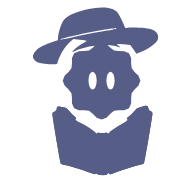
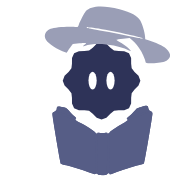
Test version: assistant in three shades (light hat, book, darkest head); notification pictures to match
Claude-Session: https://claude.ai/code/session_01SnNWWGU4BvZ2AAGobJocPY

Changed region(s): [[0.1562, 0.0312, 0.9062, 0.625]]

diff --git a/beta/index.html b/beta/index.html
@@ -3715,9 +3715,10 @@ function aiHebrewDate(d){const h=hd(d);return `${h.d} ${h.n[0]} ${h.y}`}
    adm:1 = admin-only → counts as small in the version but is never announced.
    The shown version (bottom of ⋯, popups) is worked out from these sizes by ccVerStr(). A batch shows the biggest kind it contains.
    Whole new feature -> may also set `tour:'<id>'` (an id in SETS inside ccTourStart) so "Show me" runs a live tour. */
-const CC_VER=218;
+const CC_VER=219;
 const CC_LOG=[
-  {v:180,new:['The stats rings now use the new wavy style too.']},{v:181,new:['Clearer stats screen: rings and buttons easy to see in the evening, round day dots.']},{v:182,new:['Easier to read around sunset, clearer selected buttons, neater month boxes.']},{v:183,new:['Matching shapes: reminder cards, ticked shiurim and the streak days.']},{v:184,new:['Material 3 shapes for the calendar markers, the streak days and the stats.']},{v:185,new:['Each shiur has its own shape in the stats.']},{v:186,mid:1,new:['Month view: tap a day to see what’s on it right under the week; tap it again to open the day.']},{v:187,new:['Smoother and lighter on the battery: faster day changes, quieter when idle.']},{v:188,mid:1,new:['New motion everywhere: springy, physical animations — windows grow from where you tap and their content flows in.']},{v:189,mid:1,new:['Real Material 3 motion: windows grow out of the button you tap and shrink back into it, swipes between days and months follow your finger and keep its speed, selected buttons slide to their new place.']},{v:190,new:['Faster, smoother animations.']},{v:191,new:['No more blue flash when you tap something.']},{v:192,mid:1,new:['Shapes change into other shapes: ticking a box turns its square into a scalloped cookie, the selected day becomes a new shape, switches and buttons morph when you press them.']},{v:193,new:['Fixed: tapping a shiur box ticks it again.']},{v:194,mid:1,new:['The siddur has a little compass arrow at the top that points toward Yerushalayim. Tap it to see the direction.']},{v:195,new:['The siddur arrow is now a soft triangle that points the way to daven (map direction or shortest path — tap it to choose).']},{v:196,new:['The siddur direction arrow has its new shape.']},{v:197,new:['The drop arrow and its flying bubbles are gone; the cards now simply slide up as you scroll.']},{v:198,new:['Windows open and close a little slower, so the motion is easier to enjoy.']},{v:199,new:['The month view no longer looks stretched: shorter day boxes, and windows keep their shape while they open.']},{v:200,mid:1,new:['In the siddur, swipe sideways to move between Shacharis, Mincha, Maariv, Bentching and Shema; swipe in from the left edge to close it.']},{v:201,new:['Month view: the shapes behind today and the selected day are no longer stretched sideways.']},{v:202,big:1,new:['Material 3 everywhere, fixed and finished: every window grows from its button and shrinks back into it (also the full-screen ones), text stays crisp while windows move, sliding highlights in the siddur tabs, the week strip follows your finger, predictive back, moving wavy rings, a new loader, pressed buttons make room for each other, and Material 3’s Roboto Flex font.']},{v:203,new:['Cleaner look: one font for all English, solid sheets, crisper scrolling, clearer selected day, tidier settings and shiurim, calmer dusk.']},{v:204,new:['Fixes from a full check: stats now count today properly, the phone’s Back button closes the How & when guide, clearer choices at night, and small tidy-ups in the siddur and assistant.']},{v:205,new:['The stats page is much lighter and smoother (it could freeze or close the app).']},{v:206,new:['Today’s streak shape now spins into a new shape and fills up a quarter for every shiur you check off.']},{v:207,new:['Today’s streak shape now really spins (a full turn) as it changes shape.']},{v:208,new:['The assistant button is now a silhouette in the app’s colour, with a shape-shifting head that spins as you scroll.']},{v:209,new:['The assistant button has small eyes again, sized for his new head.']},{v:210,new:['The assistant has the new look everywhere he appears — every window and the notifications.']},{v:211,new:['His head stays still while he’s asleep.']},{v:218,new:['The sun turns soft peach at sunrise and sunset, and the sun and moon slowly turn and change between rounded shapes as they move across the sky.']},
+  {v:180,new:['The stats rings now use the new wavy style too.']},{v:181,new:['Clearer stats screen: rings and buttons easy to see in the evening, round day dots.']},{v:182,new:['Easier to read around sunset, clearer selected buttons, neater month boxes.']},{v:183,new:['Matching shapes: reminder cards, ticked shiurim and the streak days.']},{v:184,new:['Material 3 shapes for the calendar markers, the streak days and the stats.']},{v:185,new:['Each shiur has its own shape in the stats.']},{v:186,mid:1,new:['Month view: tap a day to see what’s on it right under the week; tap it again to open the day.']},{v:187,new:['Smoother and lighter on the battery: faster day changes, quieter when idle.']},{v:188,mid:1,new:['New motion everywhere: springy, physical animations — windows grow from where you tap and their content flows in.']},{v:189,mid:1,new:['Real Material 3 motion: windows grow out of the button you tap and shrink back into it, swipes between days and months follow your finger and keep its speed, selected buttons slide to their new place.']},{v:190,new:['Faster, smoother animations.']},{v:191,new:['No more blue flash when you tap something.']},{v:192,mid:1,new:['Shapes change into other shapes: ticking a box turns its square into a scalloped cookie, the selected day becomes a new shape, switches and buttons morph when you press them.']},{v:193,new:['Fixed: tapping a shiur box ticks it again.']},{v:194,mid:1,new:['The siddur has a little compass arrow at the top that points toward Yerushalayim. Tap it to see the direction.']},{v:195,new:['The siddur arrow is now a soft triangle that points the way to daven (map direction or shortest path — tap it to choose).']},{v:196,new:['The siddur direction arrow has its new shape.']},{v:197,new:['The drop arrow and its flying bubbles are gone; the cards now simply slide up as you scroll.']},{v:198,new:['Windows open and close a little slower, so the motion is easier to enjoy.']},{v:199,new:['The month view no longer looks stretched: shorter day boxes, and windows keep their shape while they open.']},{v:200,mid:1,new:['In the siddur, swipe sideways to move between Shacharis, Mincha, Maariv, Bentching and Shema; swipe in from the left edge to close it.']},{v:201,new:['Month view: the shapes behind today and the selected day are no longer stretched sideways.']},{v:202,big:1,new:['Material 3 everywhere, fixed and finished: every window grows from its button and shrinks back into it (also the full-screen ones), text stays crisp while windows move, sliding highlights in the siddur tabs, the week strip follows your finger, predictive back, moving wavy rings, a new loader, pressed buttons make room for each other, and Material 3’s Roboto Flex font.']},{v:203,new:['Cleaner look: one font for all English, solid sheets, crisper scrolling, clearer selected day, tidier settings and shiurim, calmer dusk.']},{v:204,new:['Fixes from a full check: stats now count today properly, the phone’s Back button closes the How & when guide, clearer choices at night, and small tidy-ups in the siddur and assistant.']},{v:205,new:['The stats page is much lighter and smoother (it could freeze or close the app).']},{v:206,new:['Today’s streak shape now spins into a new shape and fills up a quarter for every shiur you check off.']},{v:207,new:['Today’s streak shape now really spins (a full turn) as it changes shape.']},{v:208,new:['The assistant button is now a silhouette in the app’s colour, with a shape-shifting head that spins as you scroll.']},{v:209,new:['The assistant button has small eyes again, sized for his new head.']},{v:210,new:['The assistant has the new look everywhere he appears — every window and the notifications.']},{v:211,new:['His head stays still while he’s asleep.']},{v:219,new:['The assistant now has three shades: a light hat, his book in the app colour, and the darkest head.']},
+{v:218,new:['The sun turns soft peach at sunrise and sunset, and the sun and moon slowly turn and change between rounded shapes as they move across the sky.']},
 {v:217,new:['The sun and moon have a new look: a soft pastel-yellow sun and a periwinkle moon with darker craters, in rounded Material 3 shapes. The moon still shows its real phase.']},
 {v:216,new:['The waves in the filling shapes and progress rings now move all the time, like real water.']},
 {v:215,new:['Shapes that fill up now fill like flowing water: a wavy line that moves as it fills (the streak days and the progress rings).']},
@@ -5899,15 +5900,21 @@ body.wm-pb.sd-hide>*{visibility:visible!important}
 /* ===== v208/v210: the assistant everywhere = a silhouette in the app colour, small eyes, a Material 3 head (switch fabsil) ===== */
 .cch .c-fh{display:none}
 :root:not(.tt-off-fabsil):not(.tt-off-m3) .cch:not(.csil){--ink:var(--m3p);--fill:var(--m3p);--halo:transparent}
+/* v219 (owner: "make the character's head a darker colour than the rest of his body … his sefer body darker than the hat, the head the darkest"): three tones of the theme colour — hat lightest, book the theme colour, head darkest (switch fabsil) */
+:root:not(.tt-off-fabsil):not(.tt-off-m3) .cch:not(.csil){--chT:color-mix(in srgb,var(--m3p) 60%,#fff);--chB:var(--m3p);--chH:color-mix(in srgb,var(--m3p) 38%,#161a3c)}
+:root:not(.tt-off-fabsil):not(.tt-off-m3) .cch:not(.csil) :is(.c-hat,.c-hatb){--ink:var(--chT);--fill:var(--chT)}
+:root:not(.tt-off-fabsil):not(.tt-off-m3) .cch:not(.csil) .c-book{--ink:var(--chB);--fill:var(--chB)}
+:root:not(.tt-off-fabsil):not(.tt-off-m3):is([data-night="1"],[data-theme="dark"]) .cch:not(.csil),:root:not(.tt-off-fabsil):not(.tt-off-m3) #shabGate .cch{--m3op:#eef0ff}/* the darker head needs light eyes at night */
+:root:not(.tt-off-fabsil):not(.tt-off-m3) .cch:not(.csil) .c-fh,:root:not(.tt-off-fabsil):not(.tt-off-m3) #fabCh .c-fh{fill:var(--chH)}
 :root:not(.tt-off-fabsil):not(.tt-off-m3) .cch:not(.csil) :is(.c-face,.c-halo,.c-br,.c-alr,.c-thk){display:none!important}
 /* v210: his smiling / closed / dizzy eyes stay visible: same light colour, shrunk to the small eyes' size (a static CSS scale composes with the rig's transform attribute) */
 :root:not(.tt-off-fabsil):not(.tt-off-m3) .cch:not(.csil) :is(.c-hap,.c-cls,.c-dz .ln){stroke:var(--m3op)!important;fill:none}
 :root:not(.tt-off-fabsil):not(.tt-off-m3) .cch:not(.csil) :is(.c-hap,.c-cls,.c-dz){transform-box:view-box;transform-origin:182.6px 171.5px;scale:.68}
 /* the Shabbos screen is always dark: night colours there, no white outline */
 :root:not(.tt-off-fabsil):not(.tt-off-m3) #shabGate .cch{--m3p:#c3c7ea;--m3op:#262b49;--halo:transparent}
-:root:not(.tt-off-fabsil):not(.tt-off-m3) .cch:not(.csil) .c-fh{display:inline;fill:var(--m3p)}
+:root:not(.tt-off-fabsil):not(.tt-off-m3) .cch:not(.csil) .c-fh{display:inline;fill:var(--chH)}
 :root:not(.tt-off-fabsil):not(.tt-off-m3) .cch:not(.csil) .c-e{fill:var(--m3op)!important;stroke:none!important}
-:root:not(.tt-off-fabsil):not(.tt-off-m3) #fabCh .c-fh{display:inline;fill:var(--m3p)}
+:root:not(.tt-off-fabsil):not(.tt-off-m3) #fabCh .c-fh{display:inline;fill:var(--chH)}
 
 :root{--pf-blob:polygon(evenodd,50.0% 2.8%,57.5% 2.8%,65.0% 3.9%,72.0% 6.8%,77.9% 11.6%,82.0% 18.0%,84.4% 25.0%,85.8% 31.7%,87.4% 37.9%,89.5% 43.7%,91.6% 50.0%,92.6% 56.8%,91.4% 63.5%,87.8% 69.2%,82.4% 73.5%,76.7% 76.7%,71.4% 79.5%,66.8% 83.0%,62.1% 87.2%,56.6% 91.5%,50.0% 94.8%,42.7% 96.1%,35.3% 95.4%,28.1% 93.0%,21.3% 89.6%,14.9% 85.1%,9.6% 79.4%,6.2% 72.3%,5.6% 64.4%,8.0% 56.7%,12.3% 50.0%,16.8% 44.7%,19.9% 40.2%,21.3% 35.4%,21.7% 29.5%,22.6% 22.6%,25.1% 15.7%,29.6% 10.0%,35.7% 6.1%,42.7% 3.8%,50.0% 2.8%,50.0% 50.0%,50.0% 50.0%,50.0% 50.0%,50.0% 50.0%,50.0% 50.0%,50.0% 50.0%,50.0% 50.0%,50.0% 50.0%,50.0% 50.0%,50.0% 50.0%,50.0% 50.0%,50.0% 50.0%,50.0% 50.0%,50.0% 50.0%,50.0% 50.0%,50.0% 50.0%,50.0% 50.0%,50.0% 50.0%,50.0% 50.0%,50.0% 50.0%,50.0% 50.0%,50.0% 50.0%,50.0% 50.0%,50.0% 50.0%,50.0% 50.0%,50.0% 50.0%,50.0% 50.0%,50.0% 50.0%,50.0% 50.0%,50.0% 50.0%,50.0% 50.0%,50.0% 50.0%,50.0% 50.0%,50.0% 50.0%,50.0% 50.0%,50.0% 50.0%,50.0% 50.0%,50.0% 50.0%,50.0% 50.0%,50.0% 50.0%,50.0% 50.0%);--pf-dia:polygon(evenodd,50.0% 0.0%,57.5% 2.9%,64.0% 6.8%,69.8% 11.1%,75.1% 15.5%,79.9% 20.1%,84.5% 24.9%,88.9% 30.2%,93.2% 36.0%,97.1% 42.5%,100.0% 50.0%,97.1% 57.5%,93.2% 64.0%,88.9% 69.8%,84.5% 75.1%,79.9% 79.9%,75.1% 84.5%,69.8% 88.9%,64.0% 93.2%,57.5% 97.1%,50.0% 100.0%,42.5% 97.1%,36.0% 93.2%,30.2% 88.9%,24.9% 84.5%,20.1% 79.9%,15.5% 75.1%,11.1% 69.8%,6.8% 64.0%,2.9% 57.5%,0.0% 50.0%,2.9% 42.5%,6.8% 36.0%,11.1% 30.2%,15.5% 24.9%,20.1% 20.1%,24.9% 15.5%,30.2% 11.1%,36.0% 6.8%,42.5% 2.9%,50.0% 0.0%,50.0% 50.0%,50.0% 50.0%,50.0% 50.0%,50.0% 50.0%,50.0% 50.0%,50.0% 50.0%,50.0% 50.0%,50.0% 50.0%,50.0% 50.0%,50.0% 50.0%,50.0% 50.0%,50.0% 50.0%,50.0% 50.0%,50.0% 50.0%,50.0% 50.0%,50.0% 50.0%,50.0% 50.0%,50.0% 50.0%,50.0% 50.0%,50.0% 50.0%,50.0% 50.0%,50.0% 50.0%,50.0% 50.0%,50.0% 50.0%,50.0% 50.0%,50.0% 50.0%,50.0% 50.0%,50.0% 50.0%,50.0% 50.0%,50.0% 50.0%,50.0% 50.0%,50.0% 50.0%,50.0% 50.0%,50.0% 50.0%,50.0% 50.0%,50.0% 50.0%,50.0% 50.0%,50.0% 50.0%,50.0% 50.0%,50.0% 50.0%,50.0% 50.0%)}
 /* ===== v212 (owner, month screenshot: "all of these small ones should be triangles, squares, circles, and blobs … none of them the shapes they are now"): kind markers = plain shapes (clip-path, no masks) ===== */

diff --git a/CLAUDE.md b/CLAUDE.md
@@ -65,6 +65,7 @@ Do not add files named `index (1).html` or similar: only `index.html` is served.
 - **v216 (owner: "when I said wavy, I meant live animation wavy"):** the v215 waves now move ALL the time, but only as compositor layers (no SVG child animates, no layout per frame). Streak: partly filled `.qdot i` (today n1–n3, past `.p`) = faint background + an `::after` liquid layer (height `calc(var(--fl) + 2.5px)` — `--fl` is now `inherits:true` so the pseudo can follow it; crest tile 6×5 px + solid below) sliding `translate:-6px` every 1.5 s (`qwv`). Rings: `.ring` gets `<i class="rwv" style="--rp:…"><b>`: the `<i>` has a conic mask for the progress (`--rp`, registered number, transitions on change; `upd()` sets it and `data-z` when 0 — no animation then), the `<b>` is `--m3p` masked by the wavy ring as a static data-URI SVG (the rfw path) and turns `rotate:30deg` per 2.4 s (`rwvS`, 12 waves = seamless); the SVG wave `.rfg` is hidden. Stats `sRing` adds `sWvL(...)` = the same with that ring's own `sWave` path and a conic from 225° over 270° (`--tp` = target, `stsAnim` animates `--rp` 0 → target with the grow-in), turning one wave length per 2.6 s (`swvS`); `.pgw` hidden. Paused under `cc-still` (20 s untouched) and `cc-cover` (a window open) — NOT `cc-away`, since the streak/ring are seen while scrolled down; reduced motion stops them. Cost measured (4× throttled, 8 s idle with 2/4 done, scrolled to the streak): ~10 extra style ticks/s vs the waves off. Switch `qwave` = the old static waves. Test: scratchpad `stp/live.js` (frames 260 ms apart, running animation names, stats hero).
 - **v217 (owner: "the moon and the sun should also be Material 3 Expressive … themed … moon in the app's purples/blues with a few darker craters … sun a dull pastel yellow … circular-style shapes, not necessarily circles"):** `<style id="cc-m3sky">` + a script just before `</body>`, Test tools switch `m3sky` (also off with `m3`). Sun: `.sun-b::after` clipped to `--m3sunP` (a 9-lobed soft "sunny" polygon r = 1 − a + a(½+½cos 9θ), a .085, 120 points, set on `:root` by the script), pastel #f2e6b8 → #e8d69e with 16–22% of the altitude colour `--sunc` (so it warms a little at sunrise/sunset), soft pastel halo on `::before`, turning once per 90 s (`m3sunR`, compositor `rotate`; paused under `cc-still`/`cc-away`/`cc-cover`). Moon: `artMoonUrl`/`artMoonUrlSoon` are wrapped (global reassignment) to return an SVG data URI from `M3Moon(f)`: a 9-lobed soft cookie (a .06), the unlit side `#4a5089` (night/dusk) or faint `rgba(96,104,178,.3)` (light theme: day moon), the lit side periwinkle `#c7cbf1` / `#a3abe6` from the real phase (half-disc + elliptical terminator, mirrored when waning), 7 craters darker (`#9aa1dc` / `#7c84cb`, dimmer on the dark side); the old photo filters and the white veil are off (`filter:none`, below horizon `brightness(.82)`). A class/data-theme observer re-sets every `img.mimg` when the theme or the switch changes. Test: scratchpad `stp/sky.js` (env `L` = JSON list of [time, name]).
 - **v218 (owner: "make the sun's colour change for sunrise and sunset … shapes in more variety … lightly spin as they move along the sky and morph into different shapes"):** in the v217 block. Sun colour: the script reads `--sunc` every 20 s (its green channel 224 at midday → 134 at the horizon) and sets `--sunw` = ((224−g)/90)^1.4 on `:root`; the disc is `color-mix` from pastel yellow (#f2e6b8/#e8d69e) to pastel peach-coral (#f8cfb0/#eda988) by `--sunw`, the halo the same. Shapes: generated keyframes in `<style id="cc-m3skykf">` — `m3sunM` (60 s) and `m3moonM` (90 s), 41 stops of `clip-path: polygon(72 points)` cycling five soft rounded shapes each (sun [n,a,p]: 9/.085, 7/.1, 12/.06, 6/.12^1.6, 8/.09; moon gentler: 9/.06, 7/.07, 11/.045, 5/.08^1.4, 8/.055), each held ~55% of its slot then smoothstep-morphed into the next (same sample angles → a clean radial morph), while the shape turns one full turn per loop (the turn is inside the polygons, so the moon's phase and craters stay upright — the moon SVG is now a full square and the CSS clip on `img.mimg` gives its shape). Paused under `cc-still`/`cc-away`/`cc-cover`, static under reduced motion. Cost: ~10% more idle style work while visible (8 s, 4× throttle). Test: scratchpad `stp/morphsky.js` (env `L`, `FR` frames, `GAP` ms).
+- **v219 (owner: "make the character's head a darker colour than the rest of his body … his sefer body darker than the hat, the head the darkest"):** in the v208 block (switch `fabsil`): `--chT` hat = `--m3p` 60% + white, `--chB` book = `--m3p`, `--chH` head = `--m3p` 38% + #161a3c; set by overriding `--ink`/`--fill` on `.c-hat/.c-hatb` and `.c-book` (their parts read those vars), and `.c-fh{fill:var(--chH)}` (the older `.c-fh{display:inline;fill:var(--m3p)}` rules were changed too — they came later in the file and won). At night/dusk (`data-night`/`data-theme=dark`) and on the Shabbos screen the eyes are light (`--m3op:#eef0ff`) so they show on the darker head. Notification pictures (`assets/char/c1..9.png`, `native/assets/char/cc_char1..9.png`) re-rendered with the three tones (scratchpad `stp/notif.js`, run from `stp/nt/`). Test: scratchpad `stp/tone.js` (+ button and assistant sheet, day and night, 4×).
 - **v191 (owner: "when I click on something it turns blue, and only then it opens"):** top of `cc-m3x`: `-webkit-tap-highlight-color:transparent` on every element (it was only set on ~10), `user-select:none` + `-webkit-touch-callout:none` on tappable things (buttons, links, chips, cards, day cells, dock…; text in the reader/inputs stays selectable), and no focus outline after a tap (`:focus:not(:focus-visible)`; keyboard focus still shows).
 - **Per-profile storage:** `AK(key)`, `ST(key,default)`. Local profiles and a login gate exist (`cc_local_profiles_v1`).
 - **Accounts saved online (owner, v89; v91: Create account asks for the password twice, `#accountPass2`, shown only in create mode: "if someone logs in on a different phone or uninstalls and reinstalls, it still has all his stuff").** Push server `/acct/new|login|sync` (origin-locked; KV `acct:<user>` = `{s salt, h PBKDF2-SHA256 10k, tk: last 12 session tokens, d:{key:[value,time]}, r revision, f/ft failed sign-ins → 8 fails = 10 min lock}`; user `test` refused). The sign-in script (`window.ccAcct`) sends the typed password only to the server (the phone still keeps its old FNV `passwordHash` for offline sign-in) and keeps a token in `cc_sync_<user>` = `{t, r, h:{key: FNV hash last synced}, at}`. Synced = every `cc_profile_<user>_*` key except `cc_sd_pos`/`cc_test_*`, plus `@seen` (`cc_seen_ver_<u>`) and `@tour` (`cc_local_tour_done_<u>`). `sync(u)`: changed keys go up as `[value, time, base hash]`; the server applies a change only if its copy still matches the base, otherwise the phone merges (`merge`: JSON objects unioned one level deep, server wins a clash — so shiurim ticked on two phones are kept) and sends again. Create account = registers on the server (409 → "taken"; no internet → phone-only account, backed up later). Log in with a name unknown on this phone → `/acct/login` → the server copy is written to the phone (`applyAll`). Existing signed-in users with no token get a one-time-per-opening card `#bkCard` ("Keep your account safe": type the password; if the name is someone else's on the server, pick a new one → `ccAcct.rename` moves the phone's data). Runner (block after `acctOut` in the main script): sync 1.5 s after opening, on leaving the app, on return (after 60 s), every 2 min while open; reads are cheap, a write only when something changed (KV free plan: 1000 writes/day). New data from another phone → quiet reload (while hidden, or within 20 s of opening if untouched; else on leaving). ⋯ account card line `#acctBk` ("☁ Saved to your account · 3 min ago" / "Not saved… Tap to fix"). Test: scratchpad `acct/e2e.js` (routes the app's requests into `server/worker.js` with a fake KV: create, second phone, both phones changing, old user card, name taken → rename), `acct/wt.mjs`. **Needs the worker deployed** (owner pastes it into Cloudflare).
